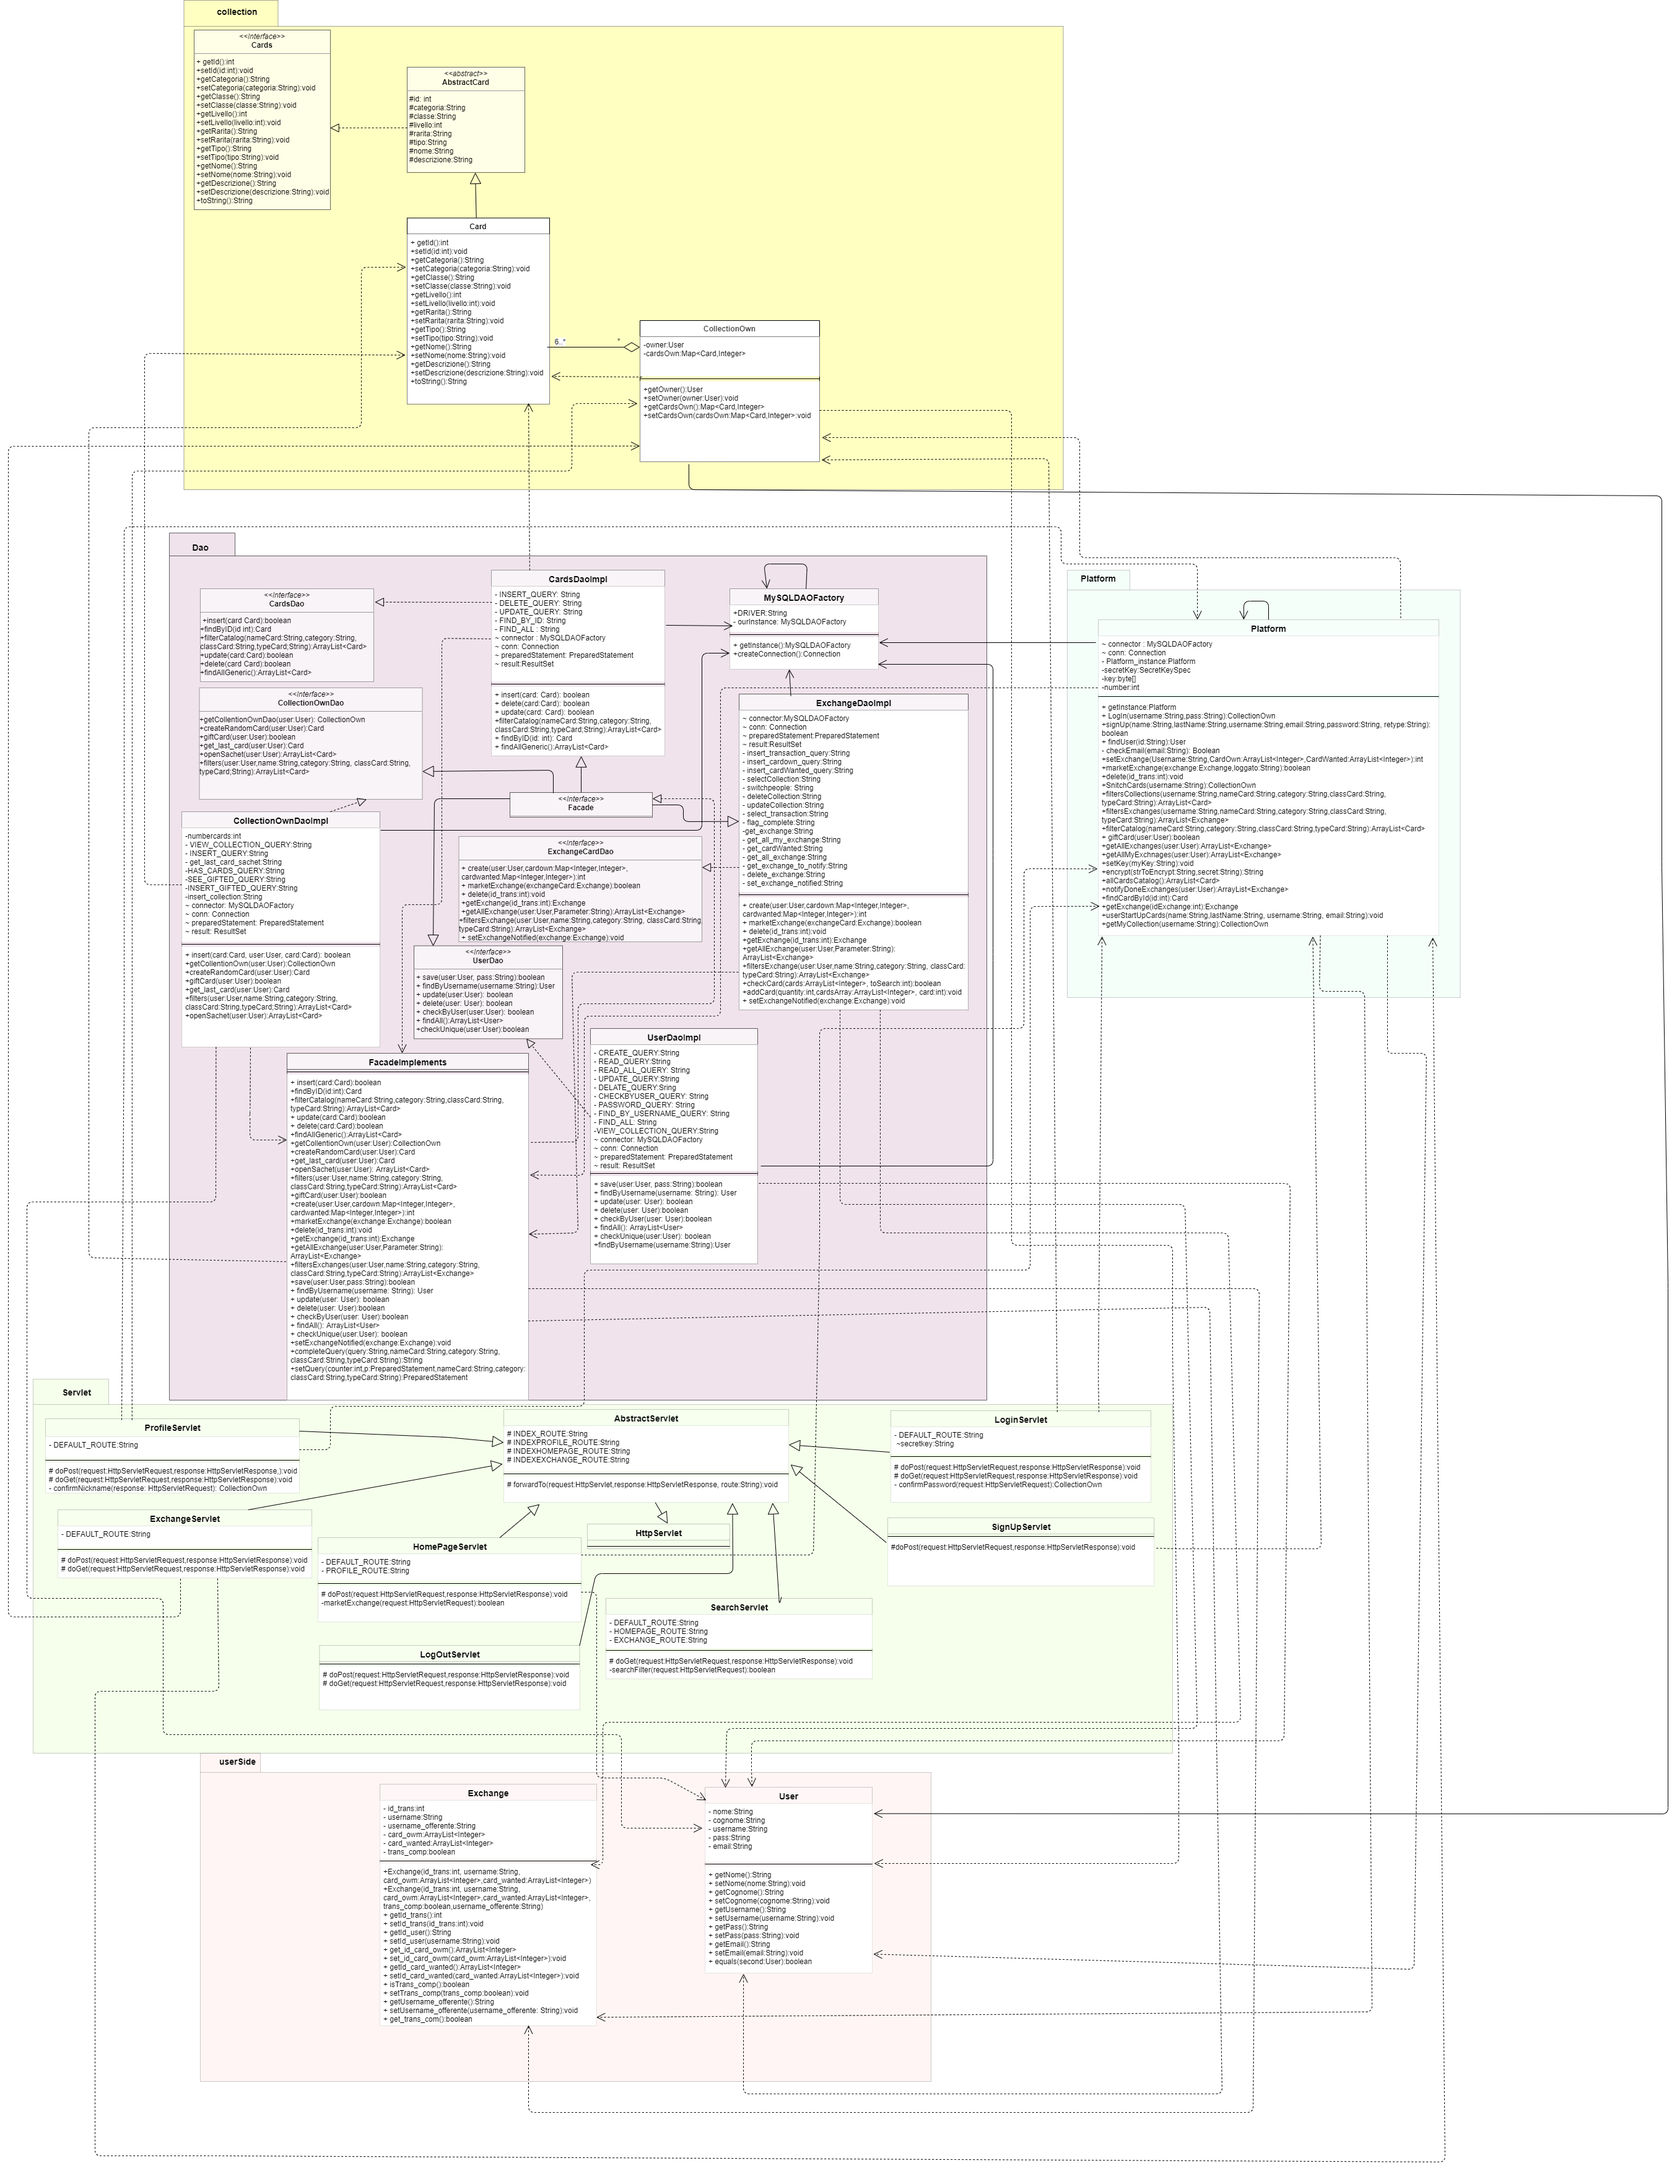
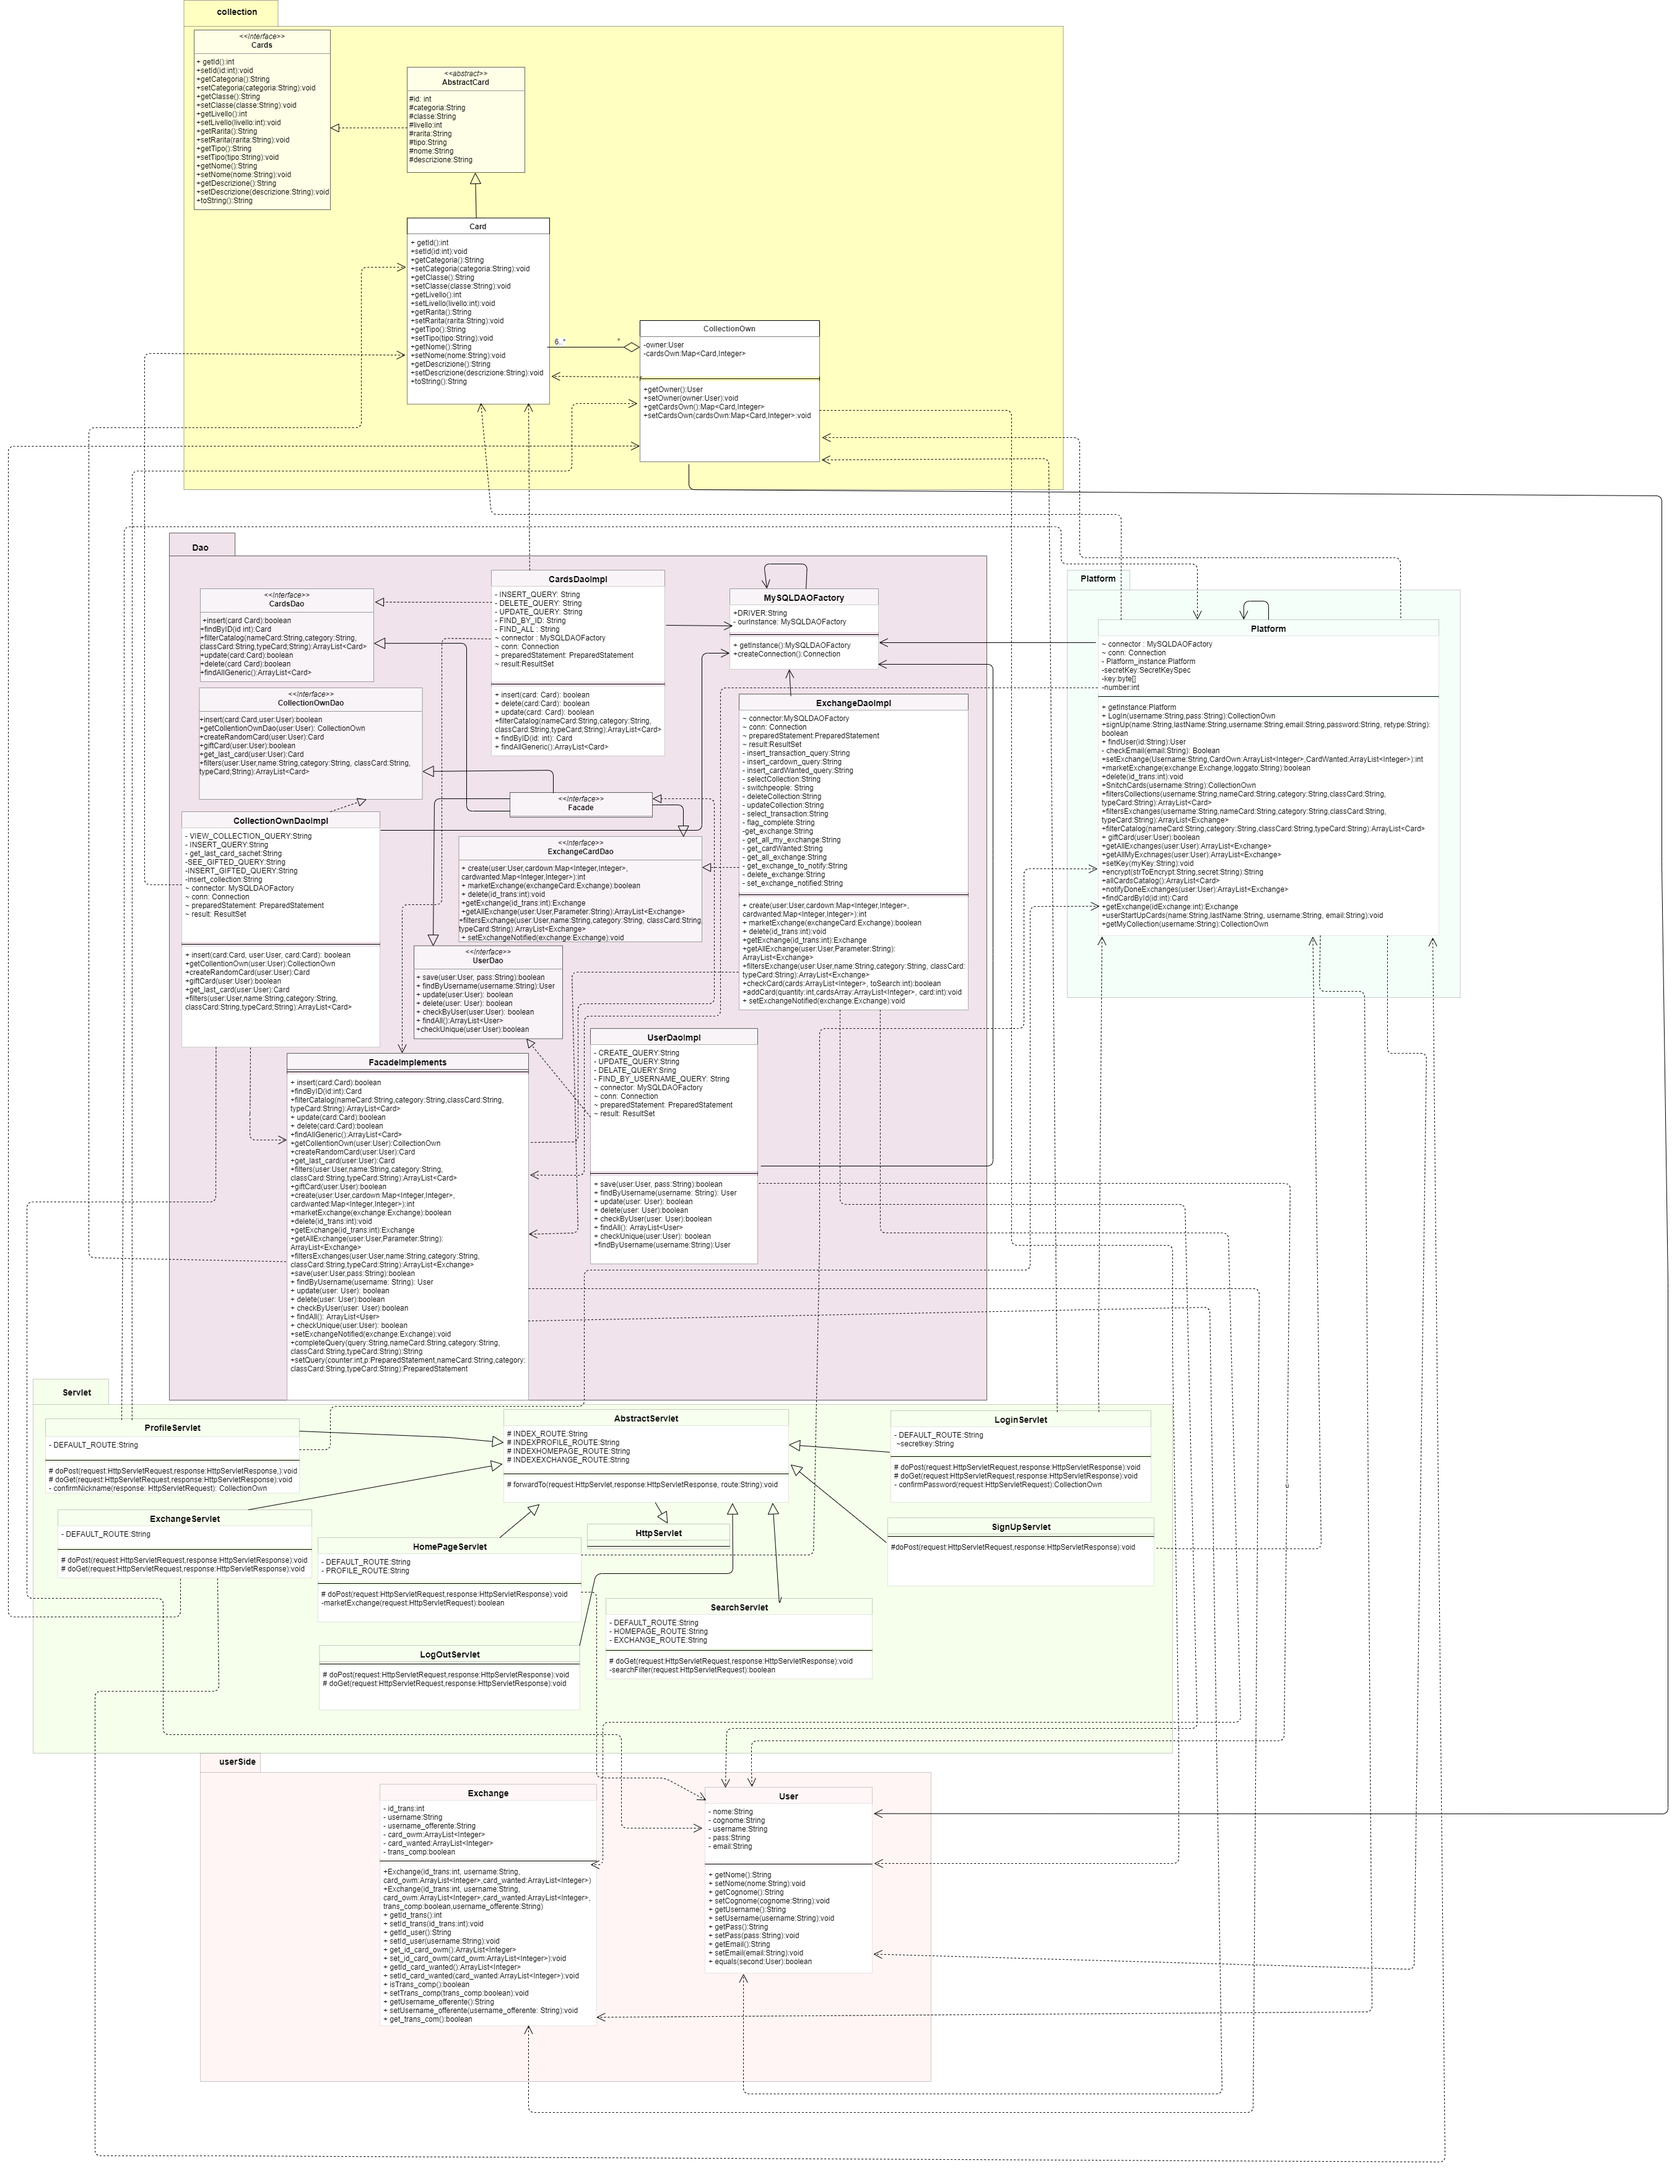
uml

Changed region(s): [[0.1551, 0.5287, 0.3102, 0.6531], [0.0931, 0.311, 0.2171, 0.4354], [0.3412, 0.4665, 0.4343, 0.5287]]

diff --git a/src/dao/CollectionOwnDaoImpl.java b/src/dao/CollectionOwnDaoImpl.java
@@ -10,8 +10,6 @@ import java.util.Map;
 
 public class CollectionOwnDaoImpl implements CollectionOwnDao {
 
-    private static final int numbercards = 6;
-
     private static final String VIEW_COLLECTION_QUERY = "select * from collections inner join catalog on (collections.ID_Card = catalog.ID) AND Username = ?";
 
     private static final String INSERT_QUERY = "INSERT INTO collections (ID_Card, Username)"+"VALUES";

diff --git a/src/dao/ExchangeCardDAOImpl.java b/src/dao/ExchangeCardDAOImpl.java
@@ -556,14 +556,13 @@ public class ExchangeCardDAOImpl implements ExchangeCardDAO {
      */
     public void addCard(int quantity, ArrayList<Integer> cardsArray, int card)
         {
-            //if(quantity>1)
-            //{
+
                while (quantity!=0)
                 {
                     cardsArray.add(card);
                     quantity--;
                 }
-            //}
+
         }
 
 

diff --git a/src/dao/CollectionOwnDao.java b/src/dao/CollectionOwnDao.java
@@ -7,6 +7,7 @@ import java.sql.SQLException;
 import java.util.ArrayList;
 
 public interface CollectionOwnDao {
+    boolean insert(User user, Card card);
     CollectionOwn getCollentionOwn(User user);
     Card createRandomCard(User user) throws  SQLException;
     boolean giftCard(User user);
